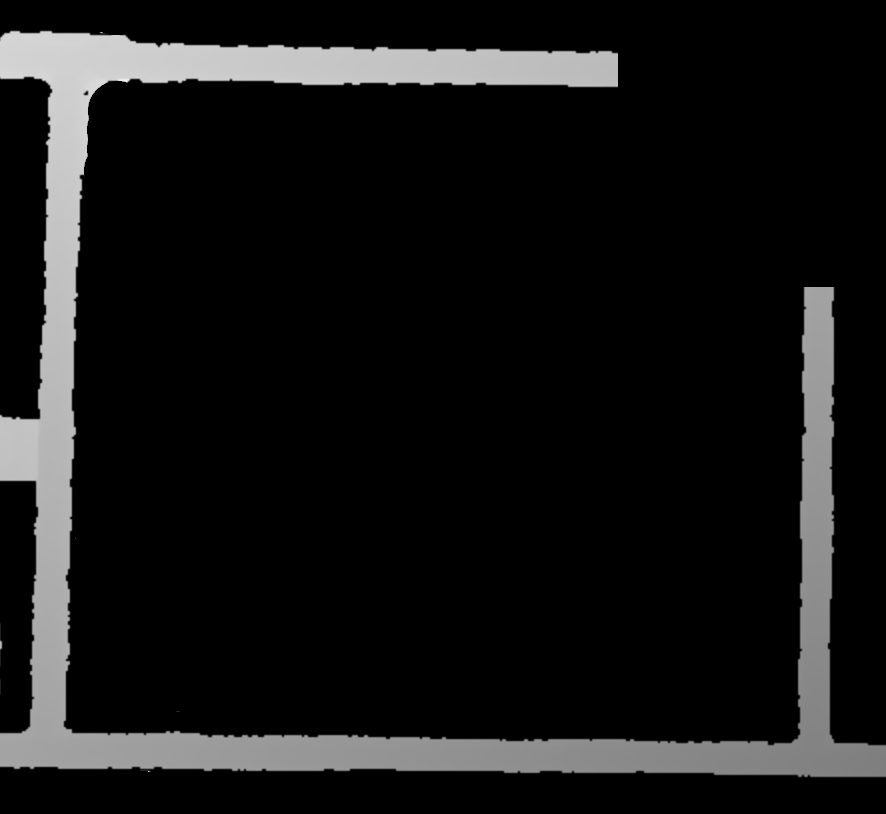
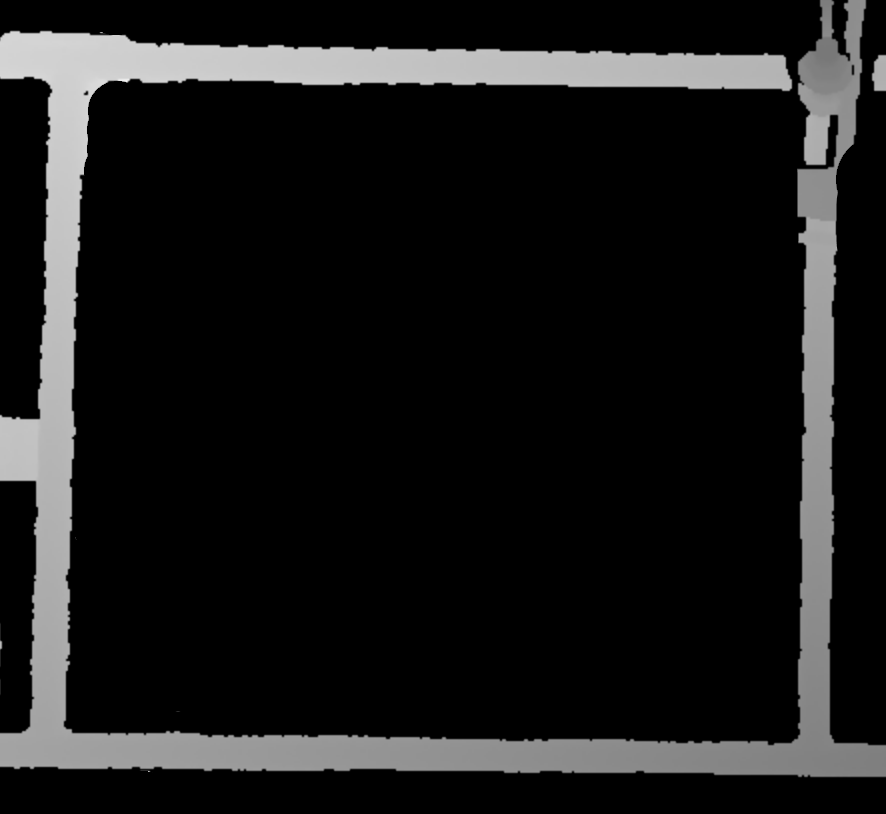
이미지 매칭 모듈의 파라미터 수정 및 코드 정리
- `run_matcher.py`: 오른쪽 포인트 좌표 비율 기본값 수정
- `matcher.py`: 카메라 객체를 인자로 추가하고, 내부 파라미터 처리 방식을 개선
- `pcd_utils.py`: 카메라 내부 파라미터 타입 변경 및 관련 코드 수정
- 이미지 파일 업데이트 및 삭제

Changed region(s): [[0.6704, 0.0, 1.0, 0.3686]]

diff --git a/core/utils/camera_utils.py b/core/utils/camera_utils.py
@@ -64,57 +64,6 @@ class Camera:
         )
         return undistorted_depth
 
-    def create_point_cloud_from_depth(
-        self,
-        depth_image: np.ndarray,
-        color_image: Optional[np.ndarray] = None,
-        scale: float = 1.0,
-    ) -> o3d.geometry.PointCloud:
-        """
-        Depth 이미지에서 Point Cloud 생성
-
-        Args:
-            depth_image: depth 이미지
-            color_image: color 이미지 (선택사항)
-            scale: depth 값 스케일링
-
-        Returns:
-            pcd: Point Cloud
-        """
-        # Depth 이미지 전처리
-        depth_scaled = (depth_image / scale).astype(np.float32)
-        depth_o3d = o3d.geometry.Image(depth_scaled)
-
-        # Color 이미지 처리
-        if color_image is not None:
-            color_o3d = o3d.geometry.Image(color_image)
-        else:
-            # Color 이미지가 없으면 검은색으로 생성
-            h, w = depth_image.shape[:2]
-            color_array = np.zeros((h, w, 3), dtype=np.uint8)
-            color_o3d = o3d.geometry.Image(color_array)
-
-        # RGBD 이미지 생성
-        rgbd_image = o3d.geometry.RGBDImage.create_from_color_and_depth(
-            color=color_o3d,
-            depth=depth_o3d,
-            convert_rgb_to_intensity=False,
-        )
-
-        # Point Cloud 생성
-        intrinsic_o3d = o3d.camera.PinholeCameraIntrinsic(
-            width=self.image_size[0],
-            height=self.image_size[1],
-            fx=self.K[0, 0],
-            fy=self.K[1, 1],
-            cx=self.K[0, 2],
-            cy=self.K[1, 2],
-        )
-
-        pcd = o3d.geometry.PointCloud.create_from_rgbd_image(rgbd_image, intrinsic_o3d)
-
-        return pcd
-
     def undistort_points(self, points_2d: np.ndarray) -> np.ndarray:
         """
         2D 포인트들 undistortion

diff --git a/core/matchers/matcher.py b/core/matchers/matcher.py
@@ -391,6 +391,7 @@ class Matcher:
         image_path: Path,
         matches_result: Dict[str, Any],
         ransac_result: Optional[Dict[str, Any]],
+        camera: Camera,
         output_dir: Optional[str] = None,
     ) -> None:
         """
@@ -456,14 +457,6 @@ class Matcher:
                         point_radius=self.config["point_radius"],
                     )
 
-                    intrinsic = o3d.camera.PinholeCameraIntrinsic(
-                        width=img0.shape[1],
-                        height=img0.shape[0],
-                        fx=2344.06988494,
-                        fy=2344.40009342502,
-                        cx=989.06314625513,
-                        cy=807.02989528271,
-                    )
                     result1_3d, result2_3d, result3_3d = depth_result
 
                     center_point_3d = (result1_3d + result2_3d + result3_3d) / 3
@@ -472,12 +465,12 @@ class Matcher:
                         img0,
                         plane_normal,
                         center_point_3d,
-                        intrinsic,
+                        camera.get_intrinsic_matrix(),
                         result1_3d,
                         result2_3d,
                         result3_3d,
                     )
-                    pcd_scaled = pcd.scale(1000.0, center=[0, 0, 0])
+                    pcd.scale(1000.0, center=[0, 0, 0])
 
                     o3d.io.write_point_cloud(
                         output_path / f"{image0_name}_with_normal.ply",
@@ -904,6 +897,7 @@ class Matcher:
                     Path(target_image_path),
                     matches_result,
                     ransac_result,
+                    camera,
                     output_dir,
                 )
 

diff --git a/core/utils/pcd_utils.py b/core/utils/pcd_utils.py
@@ -268,7 +268,7 @@ def create_point_cloud_from_depth_image(
     depth_image,  # np.ndarray 또는 o3d.geometry.Image
     plane_normal: np.ndarray,
     center_point_3d: np.ndarray,
-    intrinsic: o3d.camera.PinholeCameraIntrinsic,
+    intrinsic: np.ndarray,
     point1_3d: Optional[np.ndarray] = None,
     point2_3d: Optional[np.ndarray] = None,
     point3_3d: Optional[np.ndarray] = None,
@@ -308,15 +308,20 @@ def create_point_cloud_from_depth_image(
     )
 
     # Point cloud 생성
-    pcd = o3d.geometry.PointCloud.create_from_rgbd_image(rgbd_image, intrinsic)
+    o3d_intrinsic = o3d.camera.PinholeCameraIntrinsic(
+        width=depth_array.shape[1],
+        height=depth_array.shape[0],
+        intrinsic_matrix=intrinsic,
+    )
+    pcd = o3d.geometry.PointCloud.create_from_rgbd_image(rgbd_image, o3d_intrinsic)
 
     # print(f"center_point_3d: {center_point_3d}")
     def get_point_3d(point, intrinsic):
 
-        fx = intrinsic.intrinsic_matrix[0, 0]
-        fy = intrinsic.intrinsic_matrix[1, 1]
-        cx = intrinsic.intrinsic_matrix[0, 2]
-        cy = intrinsic.intrinsic_matrix[1, 2]
+        fx = intrinsic[0, 0]
+        fy = intrinsic[1, 1]
+        cx = intrinsic[0, 2]
+        cy = intrinsic[1, 2]
 
         # 3D 좌표 계산
         z = point[2]

diff --git a/run_matcher.py b/run_matcher.py
@@ -84,13 +84,13 @@ def main():
     parser.add_argument(
         "--offset_pointR_x",
         type=float,
-        default=1.26,
+        default=1.36,
         help="오른쪽 포인트 X 좌표 비율 (0.0 ~ 1.0)",
     )
     parser.add_argument(
         "--offset_pointR_y",
         type=float,
-        default=0.925,
+        default=0.927,
         help="오른쪽 포인트 Y 좌표 비율 (0.0 ~ 1.0)",
     )
     parser.add_argument(
@@ -108,7 +108,7 @@ def main():
     parser.add_argument(
         "--point_radius",
         type=int,
-        default=20,
+        default=30,
         help="포인트 반지름",
     )
     parser.add_argument(
